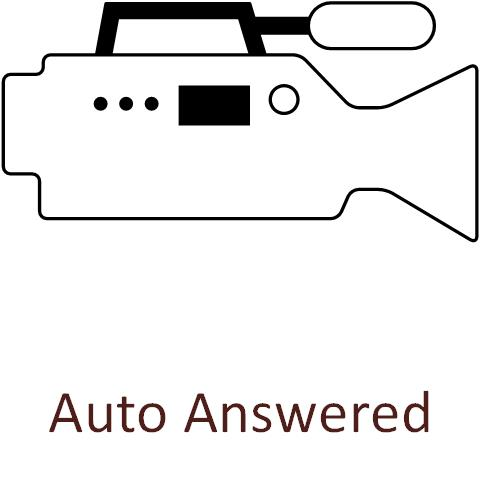
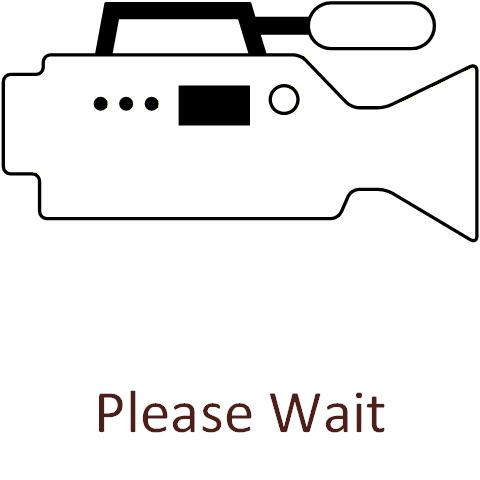
v1.2.0

Changed region(s): [[0.0938, 0.8125, 0.9062, 0.9062]]

diff --git a/Source/PsapSimulator/SettingsForm.cs b/Source/PsapSimulator/SettingsForm.cs
@@ -624,17 +624,20 @@ public partial class SettingsForm : Form
             VideoDevicesCombo.SelectedIndex = index;
             SelectedDevice = VideoDevicesCombo.Text;
             LoadVideoFormats(m_VideoDevices[SelectedDevice]);
-            SelectVideoFormat(Vss.DeviceFormat, m_VideoDevices[SelectedDevice]);
+            SelectVideoFormat(Vss.DeviceFormat);
         }
     }
 
-    private void SelectVideoFormat(VideoDeviceFormat format, List<VideoDeviceFormat> formats)
+    private void SelectVideoFormat(VideoDeviceFormat format)
     {
         int foundIndex = -1;
-        for (int i = 0; i < formats.Count; i++)
+        for (int i = 0; i < VideoListView.Items.Count; i++)
         {
-            if (formats[i].SubType == format.SubType && formats[i].Width == format.Width &&
-                formats[i].Height == format.Height && formats[i].Framerate == format.Framerate)
+            VideoDeviceFormat? Vdf = (VideoDeviceFormat?)VideoListView.Items[i].Tag;
+            if (Vdf == null)
+                continue;
+
+            if (Vdf.SubType == format.SubType && Vdf.Width == format.Width && Vdf.Height == format.Height)
             {
                 foundIndex = i;
                 break;
@@ -645,7 +648,7 @@ public partial class SettingsForm : Form
             VideoListView.Items[foundIndex].Checked = true;
         else
         {   // Nothing found, pick the first format
-            if (formats.Count > 0)
+            if (VideoListView.Items.Count > 0)
                 VideoListView.Items[0].Checked = true;
         }
     }
@@ -655,12 +658,17 @@ public partial class SettingsForm : Form
         VideoListView.Items.Clear();
         foreach (VideoDeviceFormat format in formats)
         {
-            ListViewItem Lvi = new ListViewItem(format.SubType);
-            Lvi.SubItems.Add(format.Width.ToString());
-            Lvi.SubItems.Add(format.Height.ToString());
-            Lvi.SubItems.Add(format.Framerate.ToString());
-            Lvi.Tag = format;
-            VideoListView.Items.Add(Lvi);
+            // Limit the video resolution to VGA for capture so that the application can run reliably on older versions
+            // of Windows with low performance hardware on low bandwidth networks when media encryption is enabled.
+            if (format.Width <= 640)
+            {
+                ListViewItem Lvi = new ListViewItem(format.SubType);
+                Lvi.SubItems.Add(format.Width.ToString());
+                Lvi.SubItems.Add(format.Height.ToString());
+                Lvi.SubItems.Add(format.Framerate.ToString());
+                Lvi.Tag = format;
+                VideoListView.Items.Add(Lvi);
+            }
         }
     }
 

diff --git a/Source/PsapSimulator/CallForm.cs b/Source/PsapSimulator/CallForm.cs
@@ -536,7 +536,7 @@ public partial class CallForm : Form
         NotifierContactLbl.Text = string.Empty;
         AirbagDeployedLbl.Text = string.Empty;
         VedsLatitudeLbl.Text = string.Empty;
-        LongitudeLbl.Text = string.Empty;
+        VedsLongitudeLbl.Text = string.Empty;
 
     }
 
@@ -735,7 +735,11 @@ public partial class CallForm : Form
 
     private void OnFrameReady(Bitmap bitmap)
     {
-        Invoke(() => { ReceiveVideoPb.Image = bitmap; });
+        BeginInvoke(() =>
+        {
+            ReceiveVideoPb.Image?.Dispose();
+            ReceiveVideoPb.Image = bitmap; 
+        });
     }
 
     private ListViewItem BuildListViewItem(TextMessage textMessage)
@@ -875,7 +879,17 @@ public partial class CallForm : Form
         if (m_IsClosing == true)
             return;
 
-        BeginInvoke(() => { PreviewVideoPb.Image = bitmap; });
+        BeginInvoke(() =>
+        {
+            try
+            {
+                PreviewVideoPb.Image = bitmap;
+            }
+            catch
+            {
+                // TODO: Log this exception
+            }
+        });
     }
 
     private void LocRefreshBtn_Click(object sender, EventArgs e)

diff --git a/Source/PsapSimulator/CallManagement/CallManager.cs b/Source/PsapSimulator/CallManagement/CallManager.cs
@@ -1464,7 +1464,6 @@ public class CallManager
 
         call.InviteRequest = invite;
         call.OKResponse = OkResponse;
-        call.LastInviteSequenceNumber = invite.Header.CSeq;
         
         call.OfferedSdp = OfferedSdp;
         call.AnsweredSdp = AnswerSdp;
@@ -1783,6 +1782,10 @@ public class CallManager
             offerSdp = call.AnsweredSdp!;
         else
             offerSdp = call.OfferedSdp!;
+
+        // Must increment the version of the SDP session when modifying the session
+        if (offerSdp.Origin != null)
+            offerSdp.Origin.Version += 1;
 
         foreach (string strMediaType in newMediaTypesToAdd)
         {

diff --git a/README.md b/README.md
@@ -15,7 +15,7 @@ The following block diagram shows the NG9-1-1 functional elements that the PsapS
 This application currently only handles incoming calls. All calls are treated as NG9-1-1 calls regardless of the origin of the call.
 
 ## Installation
-You can download the self-extracting EXE file for the PsapSimulator application from [here](https://1drv.ms/u/c/4f6607f8bc331ae0/IQAIUnUl4fZIS5PSqRtnVppsAdkJblIJEw6Mbwx4c7uJjVg?e=fP2PBN).
+You can download the self-extracting EXE file for the PsapSimulator application from [here](https://1drv.ms/u/c/4f6607f8bc331ae0/IQBDh1ZUOUq7SKdT6wnOYzaaAb00LxTCW-8AskA6GG72-7E?e=QHhqZc).
 
 **Note**: The self-extracting EXE installation file has not been digitally signed with a valid code signing certificate.
 
@@ -61,7 +61,7 @@ The PsapSimulator project uses the following NG9-1-1 related NuGet packages.
 1. Ng911CadIfLib (1.2.0)
 1. SipRecClient (1.1.0)
 1. EidoLib (1.0.1)
-1. SipLib.Video.Windows (1.0.0)
+1. SipLib.Video.Windows (1.0.1)
 1. SipLib.Audio.Windows (1.1.0)
 
 The PsapSimulator project uses the following general purpose NuGet packages.

diff --git a/VersionHistory.md b/VersionHistory.md
@@ -1,6 +1,6 @@
 # Version History
 
-## 1.2 -- TBD
+## 1.2.0 -- 2 Apr 2026
 
 | Issue No. | Change Type | Description |
 |--------|--------|-------|
@@ -10,6 +10,9 @@
 | NA     | Fix    | The application was not properly setting the payload type in RTP packets if the application sent a re-INVITE to add media to a call. |
 | NA     | Change | The Answer button in the main form now displays the Call Form if a ringing or Auto-Answered call is picked up and put on-line. |
 | NA     | Fix    | The user was allowed to put a ringing call on-hold. |
+| NA     | Change | Updated the AudoAnswer.jpg static image file. |
+| NA     | Change | Updated to use verion 1.0.1 of the SipLib.Video.Window DLL.|
+| NA     | Change | Limit the video resolution to VGA for capture so that the application can run reliably on older versions of Windows with low performance hardware on low bandwidth networks when media encryption is enabled. |
 
 ## v1.1.0 - 20 Feb 2026
 | Issue No. | Change Type | Description |
